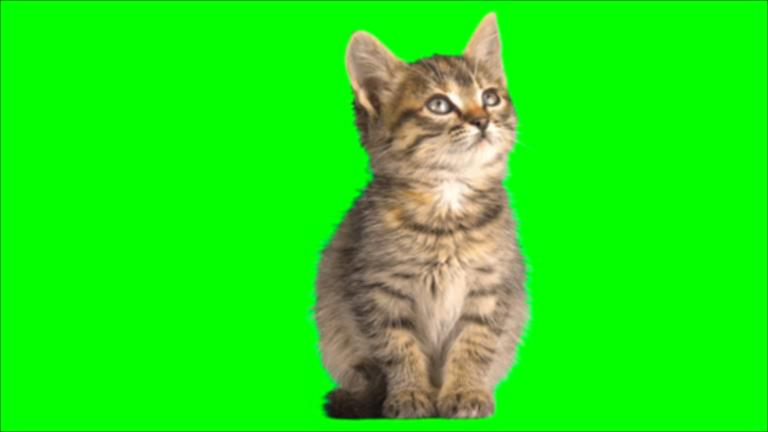
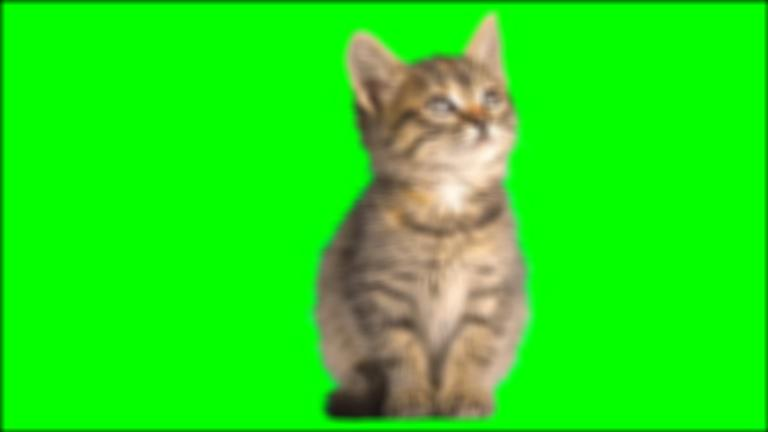
Implemented convultion exercise 4 + improved exercise 3

diff --git a/convolution_exercises/convolution.py b/convolution_exercises/convolution.py
@@ -29,7 +29,7 @@ def do_scipy_convolve(matrix: np.array, pattern: np.array) -> np.array:
     for i in range(3):
         # mode=same pour éviter que la sortie soit plus grande que l'entrée
         matrix[:, :, i] = convolve2d(matrix[:, :, i], pattern, mode="same")
-    return matrix
+    return matrix.astype(np.uint8)
 
 
 def do_exercise1():
@@ -48,18 +48,20 @@ def do_exercise2():
     )
 
 
-def do_exercise3():
+def do_exercise3(pattern_size):
     image = Image.open("./images/chat-vert.jpg")
     array = do_scipy_convolve(
-        np.array(image), np.array([[1, 1, 1], [1, 1, 1], [1, 1, 1]]) / 9
+        np.array(image),
+        np.ones((pattern_size, pattern_size)) / (pattern_size**2),
     )
+
     Image.fromarray(array).save("./output/ex3_blur.jpeg")
 
 
 def do_exercise4():
     image = Image.open("./images/chat-vert.jpg")
     array = do_scipy_convolve(
-        np.array(image), np.array([[1, 1, 1], [1, 1, 1], [1, 1, 1]]) / 9
+        np.array(image), np.array([[1, 2, 1], [2, 4, 2], [1, 2, 1]]) / 16
     )
     Image.fromarray(array).save("./output/ex4_gaussian_blur.jpeg")
 
@@ -67,4 +69,5 @@ def do_exercise4():
 if __name__ == "__main__":
     # do_exercise1()
     # do_exercise2()
-    do_exercise3()
+    do_exercise3(10)
+    do_exercise4()
